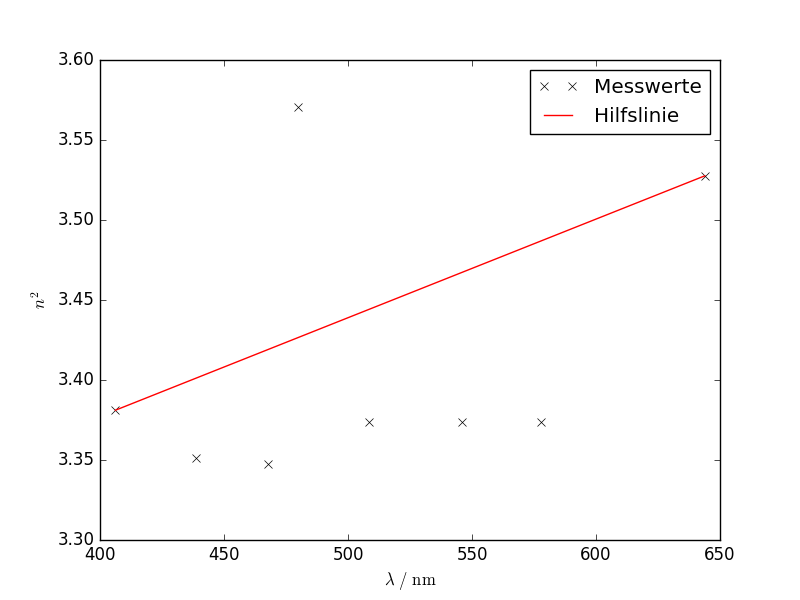
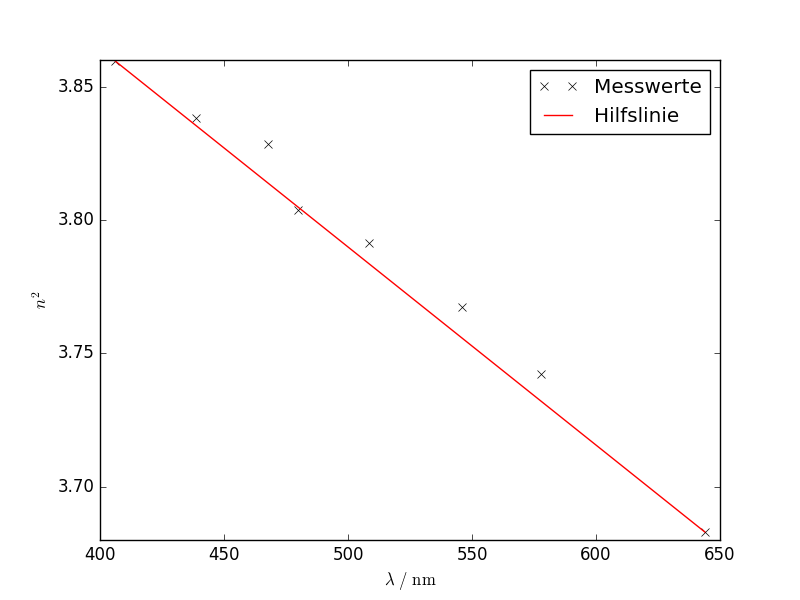
Berechnung mit Werten von Sonja und Saskia

diff --git a/V402-Dispersion-am-Glasprisma/Rechnung.py b/V402-Dispersion-am-Glasprisma/Rechnung.py
@@ -16,7 +16,7 @@ from table import (
 
 
 
-wavelength, phi_1, phi_2, eta_1, eta_2 = np.genfromtxt('Werte.txt', unpack = True)
+wavelength, phi_1, phi_2, eta_2, eta_1 = np.genfromtxt('Werte_Sonja_Saskia.txt', unpack = True)
 
 ### Umrechnungen, nan wegmachen
 wavelength = wavelength * 10**(-9)
@@ -31,12 +31,14 @@ print('eta_2:', eta_2)
 ################################################################
 phi = 0.5 * (phi_1 - phi_2)
 phi_Mittel = ufloat(np.mean(phi), np.std(phi)/np.sqrt(len(phi)))
-eta = 180 - (360 + eta_1 - eta_2)
+# eta = 180 - (360 + eta_1 - eta_2)
+eta = 180 - (eta_1-eta_2) # mit den Werten von Sonja und Saskia
 print('eta:', eta)
 print('phi_Mittel:', phi_Mittel)
 
+phi_Mittel = 60
 
-write('build/Messwerte1.tex', make_table([phi_1, phi_2, phi],[0,0,0]))
+write('build/Messwerte1.tex', make_table([phi_1, phi_2, phi],[1,1,1]))
 write('build/Winkel_Prisma.tex', make_SI(phi_Mittel,r'',figures=1))
 write('build/Messwerte2.tex', make_table([wavelength*10**9, eta_1, eta_2, eta],[2,1,1,1]))
 ################################################################
@@ -85,7 +87,7 @@ plt.show()
 
 
 ### NUR ZUR ANSCHAUUNG: Wellenlänge -> n und Wellenlänge -> Brechwinkel
-plt.plot(wavelength*10**9, n_nom, 'gx', label='Brechungsindex')
+#plt.plot(wavelength*10**9, n_nom, 'gx', label='Brechungsindex')
 plt.plot(wavelength*10**9, eta/30, 'bx', label='Brechwinkel/30')
 
 
@@ -99,33 +101,33 @@ plt.show()
 
 ################################################################
 ### Entscheidung für eine der beiden Gleichungen 11 bzw. 11a durch Regression
-### WICHTIG! 1 hier ist gestrichen im Protokoll und 2 hier ist ungestrichen im Protokoll
+### WICHTIG! Strich hier ist gestrichen im Protokoll und nichts hier ist ungestrichen im Protokoll
 ################################################################
 ### wavelength^2 -> n^2
 print('Regression mit Lambda^2')
 # Hier mache ich die Wellenlänge größer, weil Python sonst ein Speicherproblem bekommt, weil die Zahlen so klein sind.
 X = (wavelength*10**9)**2
-regression1 = np.polyfit(X, Y, 1)
-regFkt1 = np.poly1d(regression1)
+regressionStrich = np.polyfit(X, Y, 1)
+regFktStrich = np.poly1d(regressionStrich)
 
-values1, errors1 = curve_fit(f, X, Y)
+valuesStrich, errorsStrich = curve_fit(f, X, Y)
 
 
-steigung1 = 10**(-18)*ufloat(values1[0],np.sqrt(errors1[0,0]))
-versch1 = ufloat(values1[1], np.sqrt(errors1[1,1]))
-print('Steigung:', steigung1)
-print('y-Achsenabschnitt:', versch1)
+steigungStrich = 10**(-18)*ufloat(valuesStrich[0],np.sqrt(errorsStrich[0,0]))
+verschStrich = ufloat(valuesStrich[1], np.sqrt(errorsStrich[1,1]))
+print('Steigung:', steigungStrich)
+print('y-Achsenabschnitt:', verschStrich)
 
 plt.plot(X, Y, 'r.', label='Datenpunkte')
-plt.plot(X, regFkt1(X), 'g-', label = 'Regressionsgerade')
+plt.plot(X, regFktStrich(X), 'g-', label = 'Regressionsgerade')
 
 plt.xlabel(r'$\mathrm{\lambda^2} \ /\  \mathrm{m}^2$')
 plt.ylabel(r'$n^2$')
 
-write('build/Reg1Steig.tex', make_SI(steigung1*10**(25),r'\meter^{-2}','e-25',figures=2))
-write('build/Reg1Versch.tex', make_SI(versch1,r'',figures=2))
-write('build/Reg1SteigRel.tex', make_SI(unp.std_devs(steigung1)/steigung1.n,r'\meter^{-2}',figures=2))
-write('build/Reg1VerschRel.tex', make_SI(unp.std_devs(versch1)/versch1.n,r'',figures=2))
+write('build/RegStrichSteig.tex', make_SI(steigungStrich*10**(25),r'\meter^{-2}','e-25',figures=1))
+write('build/RegStrichVersch.tex', make_SI(verschStrich,r'',figures=1))
+write('build/RegStrichSteigRel.tex', make_SI(unp.std_devs(steigungStrich)/steigungStrich.n,r'\meter^{-2}',figures=1))
+write('build/RegStrichVerschRel.tex', make_SI(unp.std_devs(verschStrich)/verschStrich.n,r'',figures=3))
 
 plt.show()
 
@@ -133,42 +135,42 @@ plt.show()
 ### 1/wavelength^2 -> n^2
 print('Regression mit 1/Lambda^2')
 X = 1 / wavelength**2
-regression2 = np.polyfit(X, Y, 1)
-regFkt2 = np.poly1d(regression2)
+regression = np.polyfit(X, Y, 1)
+regFkt = np.poly1d(regression)
 
-values2, errors2 = curve_fit(f, X, Y)
+values, errors = curve_fit(f, X, Y)
 
-steigung2 = ufloat(values2[0],np.sqrt(errors2[0,0]))
-versch2 = ufloat(values2[1], np.sqrt(errors2[1,1]))
-print('Steigung:', steigung2)  
-print('y-Achsenabschnitt:', versch2)
+steigung = ufloat(values[0],np.sqrt(errors[0,0]))
+versch = ufloat(values[1], np.sqrt(errors[1,1]))
+print('Steigung:', steigung)  
+print('y-Achsenabschnitt:', versch)
 
 plt.plot(X, Y, 'r.', label='Datenpunkte')
-plt.plot(X, regFkt2(X), 'g-', label = 'Regressionsgerade')
+plt.plot(X, regFkt(X), 'g-', label = 'Regressionsgerade')
 
 plt.xlabel(r'$\mathrm{\frac{1}{\lambda^2}} \ /\  \mathrm{m}^{-2}$')
 plt.ylabel(r'$n^2$')
 
-write('build/Reg2Steig.tex', make_SI(steigung2*10**(14),r'\meter\squared','e-14',figures=2))
-write('build/Reg2Versch.tex', make_SI(versch2,r'',figures=2))
-write('build/Reg2SteigRel.tex', make_SI(-unp.std_devs(steigung2)/steigung2.n,r'\meter\squared',figures=2))
-write('build/Reg2VerschRel.tex', make_SI(unp.std_devs(versch2)/versch2.n,r'',figures=2))
+write('build/RegSteig.tex', make_SI(steigung*10**(14),r'\meter\squared','e-14',figures=1))
+write('build/RegVersch.tex', make_SI(versch,r'',figures=1))
+write('build/RegSteigRel.tex', make_SI(-unp.std_devs(steigung)/steigung.n,r'\meter\squared',figures=1))
+write('build/RegVerschRel.tex', make_SI(unp.std_devs(versch)/versch.n,r'',figures=3))
 
 plt.show()
 
 
 
 ### Abweichungsquadrate
-abw2 = 1/6 * sum((n_nom**2 - versch2.n - steigung2.n / wavelength**2)**2)
-abw1 = 1/6 * sum((n_nom**2 - versch1.n - steigung1.n * wavelength**2)**2)
+abw = 1/6 * sum((n_nom**2 - versch.n - steigung.n / wavelength**2)**2)
+abwStrich = 1/6 * sum((n_nom**2 - verschStrich.n - steigungStrich.n * wavelength**2)**2)
 print('n_nom**2:', n_nom**2)
-print('P_0:', versch2.n)
-print('P_2:', steigung2.n/wavelength**2)
-print('s**2:', abw2)
-print('s**2Strich:', abw1)
+print('P_0:', versch.n)
+print('P_2:', steigung.n/wavelength**2)
+print('s**2:', abw)
+print('s**2Strich:', abwStrich)
 
-write('build/abw1.tex', make_SI(abw1*1000,r'','e-3',figures=1))
-write('build/abw2.tex', make_SI(abw2*1000,r'','e-3',figures=1))
+write('build/abwStrich.tex', make_SI(abwStrich*1000,r'','e-3',figures=1))
+write('build/abw.tex', make_SI(abw*1000,r'','e-3',figures=1))
 
 
 
@@ -176,7 +178,7 @@ write('build/abw2.tex', make_SI(abw2*1000,r'','e-3',figures=1))
 ### Endgültige Dispersionskurve
 ################################################################
 def nFkt(wavelength):
-     return np.sqrt( values2[1]+values2[0]/wavelength**2 )
+     return np.sqrt( values[1]+values[0]/wavelength**2 )
 
 plt.plot(wavelength*10**9, n_nom, 'k.', label='Datenpunkte')
 plt.plot(wavelength*10**9, nFkt(wavelength), 'r-', label = 'Dispersionsfunktion')
@@ -196,27 +198,33 @@ C = 656 * 10**(-9)
 D = 589 * 10**(-9)
 F = 486 * 10**(-9)
 
+print('n(C):', nFkt(C))
+print('n(D):', nFkt(D))
+print('n(F):', nFkt(F))
+
+
+
 abbe = ( nFkt(D)-1 ) / ( nFkt(F)-nFkt(C) )
-write('build/Abbe.tex', make_SI(abbe,r'',figures=3))
+write('build/Abbe.tex', make_SI(abbe,r'',figures=0))
 
 
 
 ################################################################
 ### Auflösungsvermögen
 ################################################################
-b = 0.02
-A = - b * (values2[0]*wavelength**(-3)) / (nFkt(wavelength))
-print(A)
+b = 0.03
+A = b * (values[0]*wavelength**(-3)) / (nFkt(wavelength))
+print('Auflösungsvermögen:', A)
 
-write('build/Aufl.tex', make_table([wavelength*10**9, A],[1,0]))
+write('build/Auflu.tex', make_table([wavelength*10**9, A],[1,0]))
 
 
 
 ################################################################
 ### Absorptionsstelle (n=1)
 ################################################################
-wave1 = np.sqrt( -values2[0]/(values2[1]-1) )
-print(wave1)
+wave1 = np.sqrt( values[0]/(values[1]-1) )
+print('Absorptionsstelle:', wave1)
 
-write('build/absorb.tex', make_SI(wave1*10**8,r'\nano\meter','e-8',figures=3))
+write('build/absorb.tex', make_SI(wave1*10**9,r'\nano\meter',figures=0))
 

diff --git a/V402-Dispersion-am-Glasprisma/Auswertung.tex b/V402-Dispersion-am-Glasprisma/Auswertung.tex
@@ -70,7 +70,8 @@ Bei der Messung des Innenwinkels des Prismas und mit Formel \eqref{Phi} ergeben 
 	\caption{Messwerte zur Bestimmung des Innenwinkels $\varphi$ in \si{\degree}}
 	\label{tab:WinkelPhi}
 \end{table} \\
-Tabelle \ref{tab:WinkelFarben} zeigt die Winkel $\Omega_l$ und $\Omega_r$, die zusammen mit Formel \eqref{Eta} die Werte für die Brechwinkel $\eta$ ergeben. Zu beachten ist hierbei, dass zwischen den beiden Winkel die Nulllinie überschritten wurde, sodass, um die eigentliche Differenz zu erhalten, zu $\Omega_l$ jeweils \SI{360}{\degree} addiert werden müssen.
+Die nachfolgenden Werte werden allerdings mit dem zu erwartenden Wert $\varphi= \SI{60}{\degree}$ berechnet.
+Tabelle \ref{tab:WinkelFarben} zeigt die Winkel $\Omega_l$ und $\Omega_r$, die zusammen mit Formel \eqref{Eta} die Werte für die Brechwinkel $\eta$ ergeben.
 \begin{table}[h!]
 	\centering	
 	\begin{tabular}{c|c|c|c}
@@ -111,22 +112,22 @@ genähert. Es wird jeweils eine lineare Regression\footnote{siehe: \ref{math:Reg
 	\begin{tabular}{c|c|c}
 		Größe & Wert & relativer Fehler \\
 		\hline
-		$A_2$ & \input{build/Reg2Steig.tex} & \input{build/Reg2SteigRel.tex} \\
-		$A_2'$ & \input{build/Reg1Steig.tex} & \input{build/Reg1SteigRel.tex} \\
-		$A_0$ & \input{build/Reg2Versch.tex} & \input{build/Reg2VerschRel.tex} \\
-		$A_0'$ & \input{build/Reg1Versch.tex} & \input{build/Reg1VerschRel.tex} \\
+		$A_2$ & \input{build/RegSteig.tex} & \input{build/RegSteigRel.tex} \\
+		$A_2'$ & \input{build/RegStrichSteig.tex} & \input{build/RegStrichSteigRel.tex} \\
+		$A_0$ & \input{build/RegVersch.tex} & \input{build/RegVerschRel.tex} \\
+		$A_0'$ & \input{build/RegStrichVersch.tex} & \input{build/RegStrichVerschRel.tex} \\
 		\hline
-		$s^2(A_0,A_2)$ & \input{build/abw2.tex} & \\
-		$s'^2(A_0',A_2')$ & \input{build/abw1.tex} &
+		$s^2(A_0,A_2)$ & \input{build/abw.tex} & \\
+		$s'^2(A_0',A_2')$ & \input{build/abwStrich.tex} &
 	\end{tabular}
 	\caption{Durch die lineare Regression berechnete Werte $A_0,A_0',A_2,A_2'$ mit Fehlern und relativen Fehlern, sowie die quadratischen Abweichungen $s^2,s'^2$ der Regressionsgeraden zu den Datenpunkten}
 	\label{tab:Regression}
 \end{table}
 Eigentlich sollte die Entscheidung welche Näherung die bessere ist, allein durch Betrachtung der Krümmung der Kurve, die die Messwerte in Abbildung \ref{Abb:Krummung} beschreiben, getroffen werden können. In diesem Fall ist das nicht sehr aussagekräftig, weshalb sich hier nur auf die Abweichungsquadrate verlassen wird. Demnach ist \eqref{Reg:1} die bessere Wahl und die Dispersionsgleichung wird zu
 \begin{align*}
-	n(\lambda) = \sqrt{3.51 - \SI{2.3e-14}\lambda^{-2}}
+	n(\lambda) = \sqrt{3.6 + \SI{4.6e-14}\lambda^{-2}}
 \end{align*}
-bestimmt. Der Funktionsgraf ist in Abbildung \ref*{fig:DispKurve} zu sehen.
+bestimmt. Der Funktionsgraf ist in Abbildung \ref{fig:DispKurve} zu sehen.
 \begin{figure}[h!]
 	\centering
 	\includegraphics[width=0.7\textwidth]{Tendenz.png}
@@ -146,18 +147,21 @@ Für die nächstgelegene Absorptionsstelle $\lambda_1$ gilt also $\lambda_1\gg\l
 	\Leftrightarrow\quad \lambda_1 &= \sqrt{\frac{A_2}{A_0-1}} = \input{build/absorb.tex} \ .
 \end{align*}
 \clearpage
-\subsection{Kenndaten des Prismas}
+\subsection{Kenndaten des Prismas\label{sec:Kenndaten}}
 Zuletzt sollen einige Kenndaten des verwendeten Prismas berechnet werden. \\
 \ \\
 Die Abbesche Zahl ist ein Maß für die Farbzerstreuung bei Gläsern. Sie ist definiert als
 \begin{align}
-	\nu = \frac{n(\lambda_\text{D})-1}{n(\lambda_\text{F})-n(\lambda_\text{C})} = \input{build/Abbe.tex} \ ,
+	\nu = \frac{n_\text{D}-1}{n_\text{F}-n_\text{C}} \ ,
 \end{align}
-wobei die $\lambda_i$ die Wellenlängen der Fraunhoferschen Linien $\lambda_\text{D} = \SI{589}{\nano\meter}$, $\lambda_\text{F} = \SI{486}{\nano\meter}$ und $\lambda_\text{C} = \SI{656}{\nano\meter}$ sind. \\
+wobei die $n_\text{I}$ die Brechzahlen der Fraunhoferschen Linien $\lambda_\text{D} = \SI{589}{\nano\meter}$, $\lambda_\text{F} = \SI{486}{\nano\meter}$ und $\lambda_\text{C} = \SI{656}{\nano\meter}$ sind. Sie hat hier den Wert
+\begin{align}
+	\nu = \input{build/Abbe.tex} \ .
+\end{align}
 \ \\
 Das Auflösungsvermögen bezeichnet den Koeffizienten $\frac{\lambda}{\Delta\lambda}$, der beschreibt, wie nah zwei Spektrallinien liegen dürfen, sodass sie vom Prisma noch getrennt werden können. Für das verwendete Prisma kann das Auflösungsvermögen mit
 \begin{align*}
-	\frac{\lambda}{\Delta\lambda} = b\frac{\text{d}n}{\text{d}\lambda}
+	\left|\frac{\lambda}{\Delta\lambda}\right| = \left|b\frac{\text{d}n}{\text{d}\lambda}\right| = b\frac{\SI{4.6e-14}\lambda^{-3}}{\sqrt{3.6+\SI{4.6e-14}\lambda^{-2}}}
 \end{align*}
 berechnet werden (Werte für jede Wellenlänge siehe Tabelle \ref{tab:Aufl}). Die Länge $b=\SI{3}{\centi\meter}$ ist die Seitenlänge des Prismas.
 \begin{table}[h!]
@@ -165,7 +169,7 @@ berechnet werden (Werte für jede Wellenlänge siehe Tabelle \ref{tab:Aufl}). Di
 	\begin{tabular}{c|c}
 		Wellenlänge in \si{\nano\meter} & Auflösungsvermögen \\
 		\hline
-		\input{build/Aufl.tex}
+		\input{build/Auflu.tex}
 	\end{tabular}
 	\caption{Auflösungsvermögen bei verschiedenen Wellenlängen}
 	\label{tab:Aufl}

diff --git a/V402-Dispersion-am-Glasprisma/Diskussion.tex b/V402-Dispersion-am-Glasprisma/Diskussion.tex
@@ -1,2 +1,21 @@
-Die Abweichung um $\SI{-8.7}{\%}$ von den erwarteten $\SI{60}{\degree}$ bei der Messung des Innenwinkels könnte noch durch das Alter des Prismas und damit verbundenen Stürzen erklärt werden. Alle weiteren Werte legen allerdings nahe, dass ein großer systematischer Fehler bei den Messung vorliegen musste. So ist der berechnete Brechwinkel in einem Bereich von fast $\SI{100}{\nano\meter}$ konstant und bricht davor und danach nach oben aus (siehe Tabelle \ref{tab:WinkelFarben}). Alle weiteren Berechnungen machen daher auch nur wenig Sinn. So steigt die Dispersionsfunktion statt abzufallen und die Abbesche Zahl ist negativ, was nicht sein kann. \\
-Es wird vermutet, dass ein (kleiner) Teil der Fehler auf das Prisma zurück zuführen sind. Die Kanten waren nicht mehr scharf, teilweise abgeschlagen. Weitaus größere Fehler kommen dadurch zustande, dass die Brechwinkel mutmaßlich in einem Bereich von etwa $\SI{5}{\degree}$ liegen und derart feine Messungen immer Schwierigkeiten mit sich bringen. Der entscheidende Fehler wird allerdings von den Experimentatoren verursacht worden sein. Das Ablesen der (entscheidenden) Nachkommastellen der Gradanzeige führte zu Verwirrung und die Werte wurden von verschiedenen Leuten abgelesen, sodass hier möglicherweise verschiedene Methoden angewandt wurden.
+Tabelle \ref{fig:Vergleichswerte} zeigt die Brechzahlen einiger Gläser und ihre Abbezahl. Die berechneten Werte von $n_\text{C},n_\text{D},n_\text{F}$ liegen etwas über denen der Literaturwerte. Es könnte sein, dass das verwendete Prisma aus einem Glas mit relativ hohem Brechindex ist. Vermutlich liegt die Ursache der Abweichung aber in der Methode der Bestimmung von $n(\lambda)$. Dabei wurde Gleichung \ref{eq:dispersionsrelation} als Polynom mit nur zwei Termen genähert, sodass hier unvermeidbar ein Fehler entstand.
+\begin{table}[h!]
+\centering
+\begin{tabular}{lcccc}
+	Stoff & $n_\text{C}$ & $n_\text{D}$ & $n_\text{F}$ & $\nu$ \\
+	\hline
+	FK 1 & 1.46 & 1.47 & 1.48 & 67 \\
+	BK 1 & 1.51 & 1.51 & 1.51 & 63 \\
+	SK 1 & 1.61 & 1.61 & 1.62 & 57 \\
+	LF 1 & 1.57 & 1.57 & 1.58 & 43 \\
+	F 1 & 1.62 & 1.63 & 1.64 & 46 \\
+	SF 4 & 1.75 & 1.76 & 1.77 & 28 \\
+	SF 6 & 1.79 & 1.80 & 1.83 & 20 \\
+	Quarzglas & 1.46 & 1.46 & 1.46 & 67 \\
+	\hline
+	$n(\lambda)$ & 1.93 & 1.93 & 1.95 & 41
+\end{tabular}
+\caption{Brechzahlen verschiedener Gläser bei den Fraunhofer-Linien (siehe Kapitel \ref{sec:Kenndaten}) und Abbezahlen \cite[Tabellenanhang Tab. A 4.3]{Walcher} und berechnete Werte $n(\lambda)$}
+\label{fig:Vergleichswerte}
+\end{table}
+Die Abweichung um \SI{-8.1}{\%} von $\varphi$ von den erwarteten \SI{60}{\degree} deuteten allerdings darauf hin, dass auch die Messung nicht ganz zu vernachlässigende Fehler verursacht hat. Diese liegen vielleicht im Messprozess, wahrscheinlich aber auch am Prisma selbst, das nach einigen Jahren Verwendung schon abgestoßene Kanten hat, sodass die verwendeten Formeln das Experiment nur unzureichend beschreiben.

diff --git a/V402-Dispersion-am-Glasprisma/build/Messwerte2.tex b/V402-Dispersion-am-Glasprisma/build/Messwerte2.tex
@@ -1,8 +1,8 @@
-406.22 & 11.4 & 252.1 & 60.7 \\
-438.65 & 12.1 & 252.0 & 59.9 \\
-467.82 & 13.1 & 252.9 & 59.8 \\
-479.99 & 8.7  & 254.6 & 65.9 \\
-508.58 & 14.1 & 254.6 & 60.5 \\
-546.07 & 14.6 & 255.1 & 60.5 \\
-578.02 & 15.0 & 255.5 & 60.5 \\
-643.86 & 11.2 & 255.9 & 64.7 \\
+406.22 & 160.4 & 122.0 & 141.6 \\
+438.65 & 159.5 & 122.7 & 143.2 \\
+467.82 & 159.1 & 123.0 & 143.9 \\
+479.99 & 158.1 & 123.7 & 145.6 \\
+508.58 & 157.9 & 124.3 & 146.4 \\
+546.07 & 156.9 & 124.8 & 147.9 \\
+578.02 & 156.6 & 126.0 & 149.4 \\
+643.86 & 154.6 & 127.3 & 152.7 \\

diff --git a/V402-Dispersion-am-Glasprisma/build/Brechzahlen.tex b/V402-Dispersion-am-Glasprisma/build/Brechzahlen.tex
@@ -1,8 +1,8 @@
-406.22 & 1.839 & 0.006 \\
-438.65 & 1.831 & 0.006 \\
-467.82 & 1.830 & 0.006 \\
-479.99 & 1.890 & 0.006 \\
-508.58 & 1.837 & 0.006 \\
-546.07 & 1.837 & 0.006 \\
-578.02 & 1.837 & 0.006 \\
-643.86 & 1.878 & 0.006 \\
+406.22 & 1.965 & 0.000 \\
+438.65 & 1.959 & 0.000 \\
+467.82 & 1.957 & 0.000 \\
+479.99 & 1.950 & 0.000 \\
+508.58 & 1.947 & 0.000 \\
+546.07 & 1.941 & 0.000 \\
+578.02 & 1.935 & 0.000 \\
+643.86 & 1.919 & 0.000 \\

diff --git a/V402-Dispersion-am-Glasprisma/build/Aufl.tex b/V402-Dispersion-am-Glasprisma/build/Aufl.tex
@@ -1,8 +1,8 @@
-406.2 & 3810 \\
-438.7 & 3017 \\
-467.8 & 2481 \\
-480.0 & 2296 \\
-508.6 & 1927 \\
-546.1 & 1554 \\
-578.0 & 1308 \\
-643.9 & 945  \\
+406.2 & -9283 \\
+438.7 & -7404 \\
+467.8 & -6122 \\
+480.0 & -5674 \\
+508.6 & -4781 \\
+546.1 & -3873 \\
+578.0 & -3271 \\
+643.9 & -2374 \\

diff --git a/V402-Dispersion-am-Glasprisma/build/Messwerte1.tex b/V402-Dispersion-am-Glasprisma/build/Messwerte1.tex
@@ -1,4 +1,3 @@
-245 & 135 & 55 \\
-244 & 136 & 54 \\
-246 & 135 & 56 \\
-245 & 136 & 54 \\
+376.0 & 266.0 & 55.0 \\
+376.0 & 265.5 & 55.2 \\
+376.0 & 265.7 & 55.2 \\

diff --git a/V402-Dispersion-am-Glasprisma/build/Auflu.tex b/V402-Dispersion-am-Glasprisma/build/Auflu.tex
@@ -1,0 +1,8 @@
+406.2 & 10449 \\
+438.7 & 8341  \\
+467.8 & 6902  \\
+480.0 & 6399  \\
+508.6 & 5395  \\
+546.1 & 4372  \\
+578.0 & 3695  \\
+643.9 & 2683  \\

diff --git a/V402-Dispersion-am-Glasprisma/build/Reg2Steig.tex b/V402-Dispersion-am-Glasprisma/build/Reg2Steig.tex
@@ -1,1 +1,1 @@
-\SI{-2.3+-2.8e-14}{\meter\squared}
+\SI{4.44+-0.57e-14}{\meter\squared}

diff --git a/V402-Dispersion-am-Glasprisma/build/Reg1Steig.tex b/V402-Dispersion-am-Glasprisma/build/Reg1Steig.tex
@@ -1,1 +1,1 @@
-\SI{4.0+-4.0e-25}{\meter^{-2}}
+\SI{-6.78+-0.23e-25}{\meter^{-2}}

diff --git a/V402-Dispersion-am-Glasprisma/build/Reg2SteigRel.tex b/V402-Dispersion-am-Glasprisma/build/Reg2SteigRel.tex
@@ -1,1 +1,1 @@
-\SI{1.18}{\meter\squared}
+\SI{-0.13}{\meter\squared}

diff --git a/V402-Dispersion-am-Glasprisma/build/absorb.tex b/V402-Dispersion-am-Glasprisma/build/absorb.tex
@@ -1,1 +1,1 @@
-\SI{9.664e-8}{\nano\meter}
+\SI{133}{\nano\meter}
